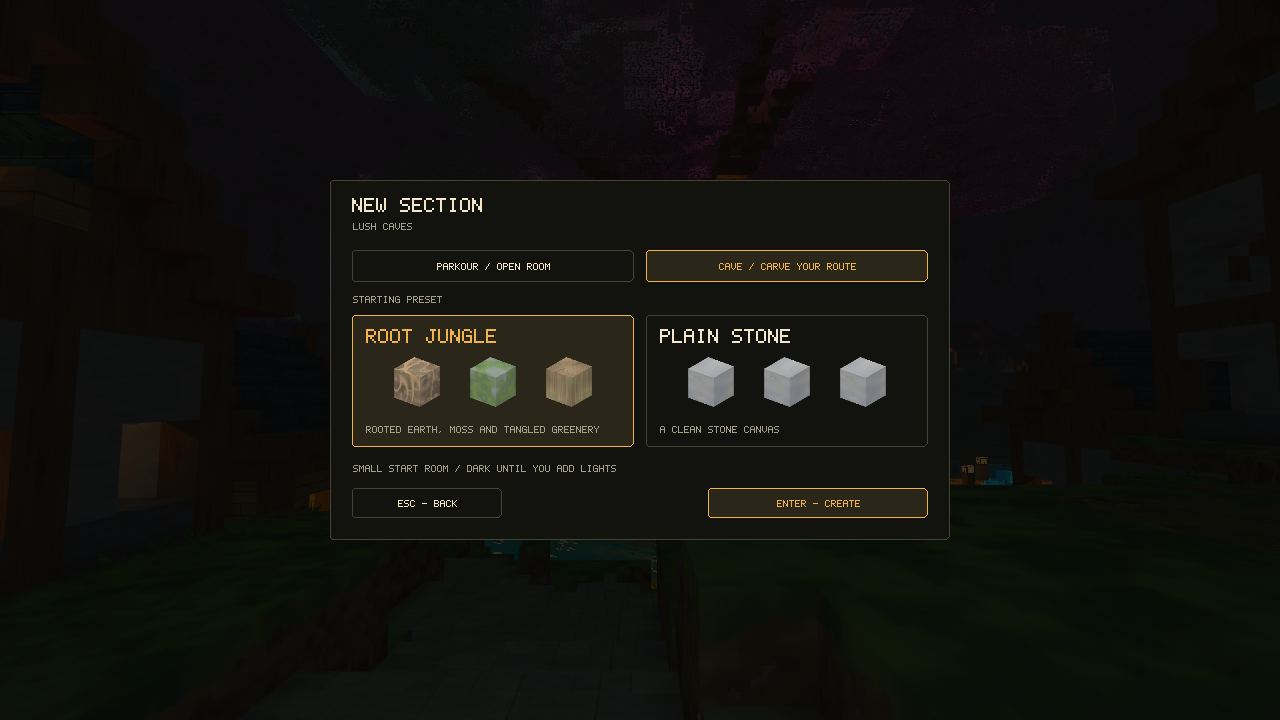
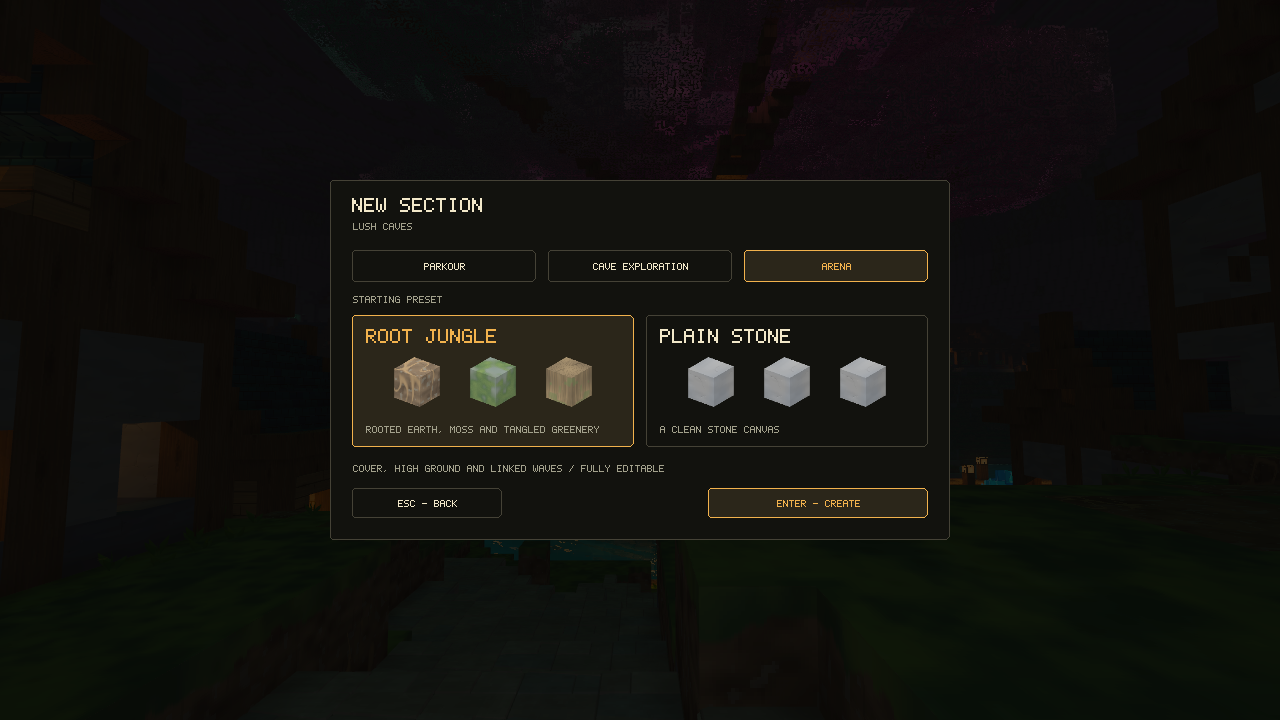
Document arena building and show the starter layout in game

diff --git a/docs/building.md b/docs/building.md
@@ -2,7 +2,7 @@
 
 Open the builder with **F7** or `./build/VoxelEngine --dev`. Choose a world, then create a new section or open a draft. These instructions are for the section builder; `--editor` opens the older terrain sandbox.
 
-Choose **Parkour** for an open room or **Cave exploration** for a solid volume to carve. The next screen lets you choose the world's preset or **Plain stone**, then **Create**. You can also change the layout on that screen. Arrow left/right changes layout, up/down changes preset, and Enter creates it; Escape goes back.
+Choose **Parkour** for an open room, **Cave exploration** for a solid volume to carve, or **Arena** for a fighting space with linked waves. The next screen lets you choose the world's preset or **Plain stone**, then **Create**. You can also change the layout on that screen. Arrow left/right changes layout, up/down changes preset, and Enter creates it; Escape goes back.
 
 | World | Preset | Materials |
 | --- | --- | --- |
@@ -10,7 +10,7 @@ Choose **Parkour** for an open room or **Cave exploration** for a solid volume t
 | Crystal Hollows | Crystal grotto | Calcite, limestone, slate, quartz, and amethyst seams |
 | Ember Depths | Ember rock | Slate, obsidian, stone, and warm clay bands |
 
-Presets become ordinary blocks and models you can edit. Cave materials run throughout the solid volume, so digging new passages reveals the same theme. Parkour scenery stays around the edges, leaving room for your route. **Plain stone** keeps the original unadorned starting layout. Choosing a preset only affects a new section; saved drafts and accepted sections keep their terrain.
+Presets become ordinary blocks and models you can edit. Cave materials run throughout the solid volume, so digging new passages reveals the same theme. Parkour scenery stays around the edges, leaving room for your route. **Plain stone** removes the world dressing; an arena still keeps its cover, platforms, lights, and spawners. Choosing a preset only affects a new section; saved drafts and accepted sections keep their terrain.
 
 The builder shows a small section label, hotbar, and the current tool's hint. Routine messages fade after a few seconds. **H** opens the full controls when you need them; **G** opens build settings.
 
@@ -37,6 +37,19 @@ Each carve stamp can be undone with **Cmd/Ctrl+Z**. A held click repeats stamps.
 **Build light: On** is temporary help for editing. Switch it off to preview your lighting while building. It never carries into **F8** tests or published levels. During play, select the lantern with **2** for personal light; select another tool to put it away.
 
 You can switch any section between **Light: Dark** and **Light: Ambient**. That setting is saved with the section and follows it into assembled levels. Existing sections keep their original ambient lighting. Changing the setting requires another playtest before accepting.
+
+## Building an arena
+
+Choose **Arena**, pick the world theme or **Plain stone**, then **Create**. The starter has an open combat floor, low cover, raised side platforms with stairs at both ends, and three linked trial spawners. The Root jungle version adds roots, greenery, and contained ponds around the edges. The other worlds use their own materials and scenery.
+
+1. Move, remove, or add cover, platforms, lights, and scenery with the ordinary building tools. Leave clear floor around spawners for enemies to appear, and enough room to move between fights.
+2. Aim at each spawner and press **E**. Set its enemy counts and **Edit rewards**, then save. Every spawner drops its own configured loot as soon as that fight is cleared; the last fight can have a bigger reward. The starter begins with slimes, introduces skeletons, then adds a wizard.
+3. Use **Link next** to change the order or extend the chain. The first wave starts when approached; following waves start after the previous fight is cleared.
+4. Press **F8** to play with your sword. End remains locked until every spawner is cleared. Finish the test, then use **F10** to accept the section under **Arena** and **F11** to add it to a level.
+
+Arenas start with ambient lighting and placed lamps so enemies and cover stay visible during fights. For a darker arena, choose **G → Light: Dark**, then turn **Build light** off to preview your placed lights. Their combat, checkpoints, loot, and permanent clears follow the same rules as other authored sections. A fresh F8 test resets the encounters and restores your original inventory when you return to building.
+
+![The editable Root jungle arena, with numbered spawner links, side platforms, and hanging lamps](screenshots/arena.png)
 
 ## Moving and placing things
 

diff --git a/README.md b/README.md
@@ -107,7 +107,7 @@ Start the section builder with **F7**, or launch it directly:
 ./build/VoxelEngine --dev
 ```
 
-1. Choose a world, then **Parkour** for an open room or **Cave exploration** for a filled cave with a small starting chamber. Pick a preset and click **Create**. Both have a 64 × 48 × 64 building area inside a protected shell.
+1. Choose a world, then **Parkour** for an open room, **Cave exploration** for a filled cave to carve, or **Arena** for a ready-to-edit fighting space. Pick a preset and click **Create**. All three use a 64 × 48 × 64 building area inside a protected shell.
 2. Press **E** to choose blocks, models, items, and markers. Left click removes, right click places, and middle click picks what you're looking at. **T** rotates pieces; **Y** changes model finishes or gate pose.
 3. Place one **Start** and one **End** marker. You can add a checkpoint too.
 4. Press **F8** to walk through the room. Reach the End, then press **F8** to return to building.
@@ -135,6 +135,10 @@ Dark caves rely on lamps, glowing materials, or your equipped lantern. The build
 ![A carved passage with hanging lamps and darkness beyond their reach](docs/screenshots/cave-exploration.png)
 
 To chain fights, place Trial spawners, aim at the first, and choose **E → Link next**. Click the next spawner, then **Save**. Repeat for later fights; numbered arrows show their order while building. **Unlink** removes a connection, and **X / Escape** cancels target selection. Chains stay within one section. The [building guide](docs/building.md#chain-spawners) covers chaining, building tools, and loot.
+
+**Arena** starts with three linked waves, cover, raised side platforms with stairs, and placed lights. Each spawner pays out its own loot when cleared. Aim at one and press **E** to change enemies, links, or **Edit rewards**; give the last fight better loot if you want. Clear every spawner to unlock End. **F8** tests it, and an accepted arena can be added to a level alongside your other sections.
+
+![The first slime wave in the Root jungle starter arena](docs/screenshots/arena-combat.png)
 
 ![Fences, gates, and wall frames assembled in a test room](docs/screenshots/building-pieces.png)
 
